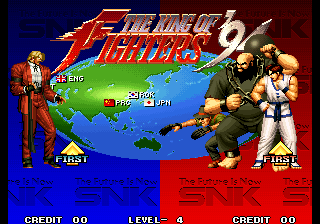
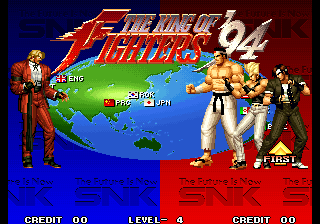
Fix how to pick Rugal full form

Changed region(s): [[0.5, 0.1562, 0.9688, 0.7812], [0.0312, 0.2188, 0.2812, 0.75]]

diff --git a/src/components/IndexPage/IndexPage.tsx b/src/components/IndexPage/IndexPage.tsx
@@ -205,8 +205,8 @@ function IndexPage() {
           />
           <p className="my-4">
             To get regular Rugal, choose him with A in the order select screen.
-            To get second form Rugal, move the arrow so it is above slot 2 or 3
-            then press A. They will stay empty, that is expected.
+            To get second form Rugal, push right or left until Rugal stops
+            moving.
           </p>
           <p className="my-4">
             Once he is chosen, turn off debug dip 1-4, otherwise both characters
